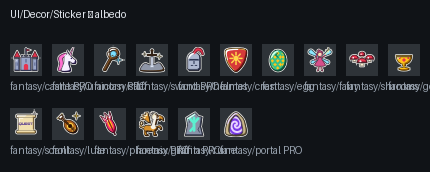
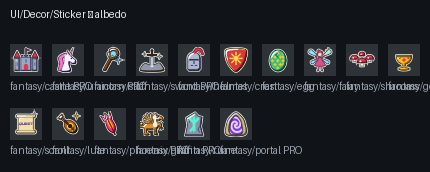
stickers: Fantasy griffin redrawn: feathered wing, lion body, eagle talons, meaner head
Claude-Session: https://claude.ai/code/session_016Eemej3YPrjeAQrG64aNoy

Changed region(s): [[0.3023, 0.6395, 0.393, 0.814]]

diff --git a/Tools/sticker_packs/fantasy.py b/Tools/sticker_packs/fantasy.py
@@ -184,19 +184,26 @@ def _():
 
 @sticker("fantasy", "griffin", "Griffin", ["#D9922E", "#F4F0E6", "#4A2A0C", "#FFF3C8"], ink=1.0)
 def _():
-    wing = poly([(-0.1, 0.05), (-0.18, 0.5), (-0.3, 0.88), (-0.55, 0.86), (-0.5, 0.74), (-0.76, 0.7), (-0.62, 0.58), (-0.86, 0.5),
-                 (-0.68, 0.42), (-0.82, 0.32), (-0.52, 0.3), (-0.3, 0.1)])
-    torso = U(oval(-0.05, -0.34, 0.5, 0.26, 0.0), circle(-0.4, -0.34, 0.26))
-    legs = U(brush([(-0.42, -0.4), (-0.52, -0.64), (-0.46, -0.84)], [0.13, 0.1, 0.09]), oval(-0.4, -0.86, 0.14, 0.07, 0.0),
-             seg(0.16, -0.42, 0.2, -0.82, 0.09), oval(0.26, -0.84, 0.13, 0.07, 0.0), brush([(0.3, -0.3), (0.58, -0.2), (0.7, -0.38)], [0.09, 0.08, 0.08]))
-    tail = U(brush([(-0.62, -0.28), (-0.86, -0.18), (-0.8, 0.02)], [0.09, 0.08, 0.07]), circle(-0.8, 0.06, 0.13))
-    beak = poly(spline([(0.46, 0.7), (0.84, 0.54), (0.92, 0.22), (0.72, 0.34), (0.6, 0.24), (0.46, 0.4)], closed=True, n=5))
+    sx, sy = -0.02, 0.12
+    angs = (100, 120, 140, 158, 175)
+    lens = (0.66, 0.74, 0.74, 0.68, 0.56)
+    tips = [(sx + L * math.cos(math.radians(a)), sy + L * math.sin(math.radians(a))) for a, L in zip(angs, lens)]
+    wing = U(*[taper(sx, sy, x, y, 0.13, 0.085) for x, y in tips], circle(sx - 0.1, sy + 0.05, 0.2))
+    torso = U(oval(-0.1, -0.2, 0.56, 0.25, 0.0), circle(0.26, -0.12, 0.3), circle(-0.44, -0.2, 0.27))
+    talons = lambda x, y, tips_: U(*[taper(x, y, tx, ty, 0.06, 0.02) for tx, ty in tips_])
+    legs = U(brush([(-0.46, -0.3), (-0.52, -0.58), (-0.46, -0.8)], [0.17, 0.12, 0.1]), oval(-0.4, -0.84, 0.19, 0.08, 0.0),
+             brush([(0.26, -0.3), (0.28, -0.58), (0.26, -0.78)], [0.14, 0.1, 0.09]), talons(0.26, -0.8, [(0.46, -0.86), (0.44, -0.78), (0.42, -0.9)]),
+             brush([(0.36, -0.1), (0.62, 0.0), (0.7, -0.2)], [0.15, 0.12, 0.1]), talons(0.7, -0.2, [(0.6, -0.42), (0.74, -0.44), (0.88, -0.36)]))
+    tail = U(brush([(-0.66, -0.2), (-0.88, -0.22), (-0.86, -0.02)], [0.1, 0.08, 0.07]), circle(-0.84, 0.02, 0.15))
+    beak = poly(spline([(0.46, 0.7), (0.84, 0.54), (0.94, 0.2), (0.72, 0.34), (0.6, 0.24), (0.46, 0.4)], closed=True, n=5))
     lion = U(wing, torso, legs, tail, beak)
-    neck = brush([(0.1, -0.2), (0.18, 0.1), (0.26, 0.4)], [0.2, 0.18, 0.18])
-    head = U(neck, oval(0.26, 0.52, 0.3, 0.26, 0.0), taper(0.2, 0.7, -0.1, 0.84, 0.1, 0.01), taper(0.28, 0.76, 0.0, 0.94, 0.09, 0.01), taper(0.14, 0.62, -0.18, 0.7, 0.09, 0.01))
-    eye = U(circle(0.4, 0.54, 0.065), seg(0.26, 0.74, 0.5, 0.6, 0.045))
+    neck = brush([(0.26, -0.05), (0.27, 0.22), (0.3, 0.42)], [0.2, 0.16, 0.17])
+    crest = U(taper(0.22, 0.7, -0.06, 0.82, 0.1, 0.01), taper(0.3, 0.76, 0.04, 0.94, 0.09, 0.01), taper(0.16, 0.62, -0.12, 0.66, 0.09, 0.01))
+    head = U(neck, oval(0.3, 0.52, 0.3, 0.26, 0.0), crest)
+    eye = U(circle(0.42, 0.55, 0.065), seg(0.28, 0.75, 0.52, 0.6, 0.045))
     both = U(lion, head)
-    shade = U(_lr(both, 0.09), eye, circle(-0.8, 0.06, 0.13))
+    veins = U(*[seg(sx, sy, sx + 0.9 * (x - sx), sy + 0.9 * (y - sy), 0.016) for x, y in tips])
+    shade = U(_lr(both, 0.09), eye, circle(-0.84, 0.02, 0.15), sub(veins, head))
     shine = _hl(both, 0.08, 0.3)
     return [lion, head, shade, shine]
 
